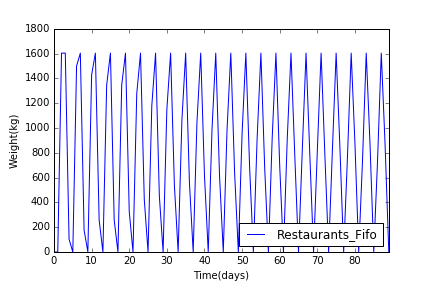
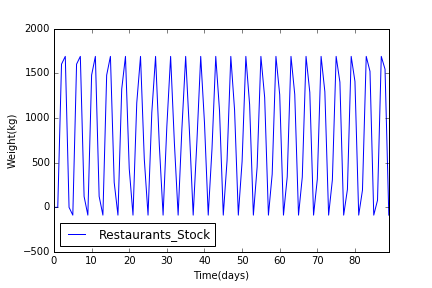
final2

Changed region(s): [[0.0, 0.1875, 0.9028, 0.9062], [0.0602, 0.1562, 0.1505, 0.2812], [0.0602, 0.0625, 0.0903, 0.125]]

diff --git a/Fish.py b/Fish.py
@@ -37,7 +37,7 @@ def create_model():
                expire = "Expired_Frozen_Fish")
     
     
-    model.fifo("Restaurants_Fifo",2, 
+    model.fifo("Restaurants_Stock",2, 
               inflow = "Deliver_Restaurants", 
               take = "Restaurant_Sell", 
               expire = "Resturant_Trash")
@@ -93,14 +93,14 @@ def create_model():
         Weight_of_fisk_consumed_per_day = random.randint(1500,1700) #kg
 
         return Weight_of_fisk_consumed_per_day
-    model.equation("Restaurant_Sell",Fish_sold_resturants,"Restaurants_Fifo")
+    model.equation("Restaurant_Sell",Fish_sold_resturants,"Restaurants_Stock")
     
     def Restaurant_orders(time, Restaurant_orders, Resturant_fifo):
         demand_for_fish_per_day = 1604 #kg
         demand = demand_for_fish_per_day - Resturant_fifo
         print(Resturant_fifo)
         return demand
-    model.equation("Restaurant_Demand",Restaurant_orders, "Restaurants_Orders","Restaurants_Fifo")
+    model.equation("Restaurant_Demand",Restaurant_orders, "Restaurants_Orders","Restaurants_Stock")
     
     def Fish_sold_supermarkets(time, fish_sold_supermarkets ):
         
@@ -130,7 +130,7 @@ def run_model(model):
     plt.ylabel("Weight (kg)")
     data_plot2.figure.savefig("Fresh_Fish.png")
     
-    data_plot3 = data.plot(y='Restaurants_Fifo')
+    data_plot3 = data.plot(y='Restaurants_Stock')
     plt.xlabel("Time(days)")
     plt.ylabel("Weight(kg)")
     data_plot3.figure.savefig("Resturants_stock.png")
@@ -139,6 +139,10 @@ def run_model(model):
     plt.xlabel("Time (days)")
     plt.ylabel("Weight (kg)")
     data_plot4.figure.savefig("Supermarket_Stock.png")
+    
+    data_plot5 = data.plot(y='Restaurants_Throw_Away')
+    plt.xlabel("Time (days)")
+    plt.ylabel("Weight (kg)")
     
     
     return data
